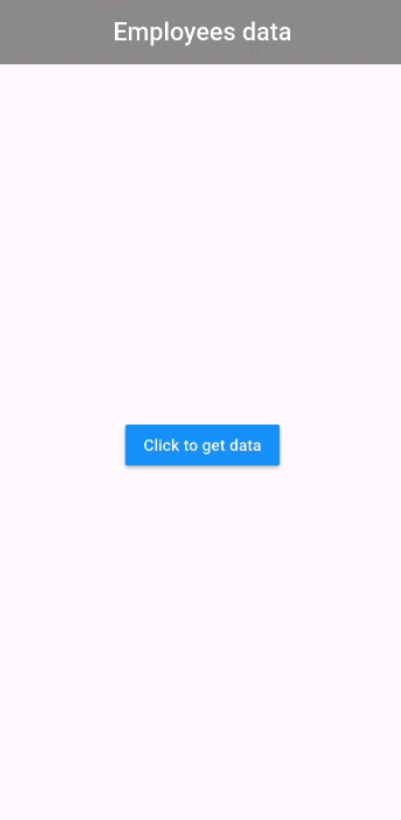
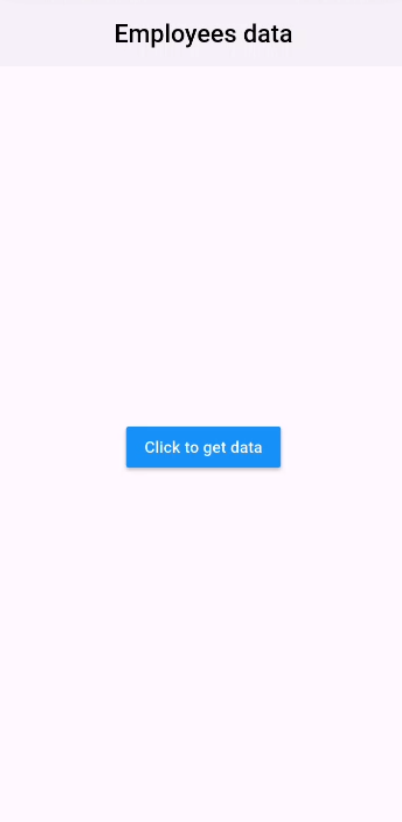
Edit output images

Changed region(s): [[0.0, 0.0, 1.0, 0.0915], [0.3591, 0.5183, 0.6584, 0.5793], [0.2993, 0.5183, 0.3292, 0.5793]]

diff --git a/lib/view/widgets/custom_list_tile.dart b/lib/view/widgets/custom_list_tile.dart
@@ -9,13 +9,14 @@ class CustomListTile extends StatelessWidget {
   @override
   Widget build(BuildContext context) {
     return ListTile(
-      focusColor: Colors.purpleAccent,
       tileColor: Colors.grey.shade200,
+      splashColor: Colors.grey.shade300,
       shape: RoundedRectangleBorder(
         borderRadius: BorderRadius.circular(5.0),
       ),
       leading: CircleAvatar(
         radius: 20.0,
+        backgroundColor: Colors.green,
         backgroundImage: NetworkImage(user.imageUrl ?? ""),
       ),
       title: Text('${user.firstName} ${user.lastName}'),
@@ -27,7 +28,7 @@ class CustomListTile extends StatelessWidget {
         '${user.salary.toString()}\$',
         style: TextStyle(
           fontSize: 15.0,
-          color: Colors.blueAccent,
+          color: Colors.green,
         ),
       ),
     );

diff --git a/lib/view/home_screen.dart b/lib/view/home_screen.dart
@@ -29,16 +29,16 @@ class _HomeScreenState extends State<HomeScreen> {
   Widget build(BuildContext context) {
     return Scaffold(
       appBar: AppBar(
+        elevation: 1.0,
         title: Text(
           AppStrings.employeeData,
-          style: TextStyle(color: Colors.white, fontWeight: FontWeight.w500),
+          style: TextStyle(color: Colors.black, fontWeight: FontWeight.w500),
         ),
         centerTitle: true,
-        backgroundColor: Colors.black45,
       ),
       body: isLoading
           ? Center(
-              child: CircularProgressIndicator(),
+              child: CircularProgressIndicator(color: Colors.blueAccent,),
             )
           : users.isEmpty
               ? Align(
